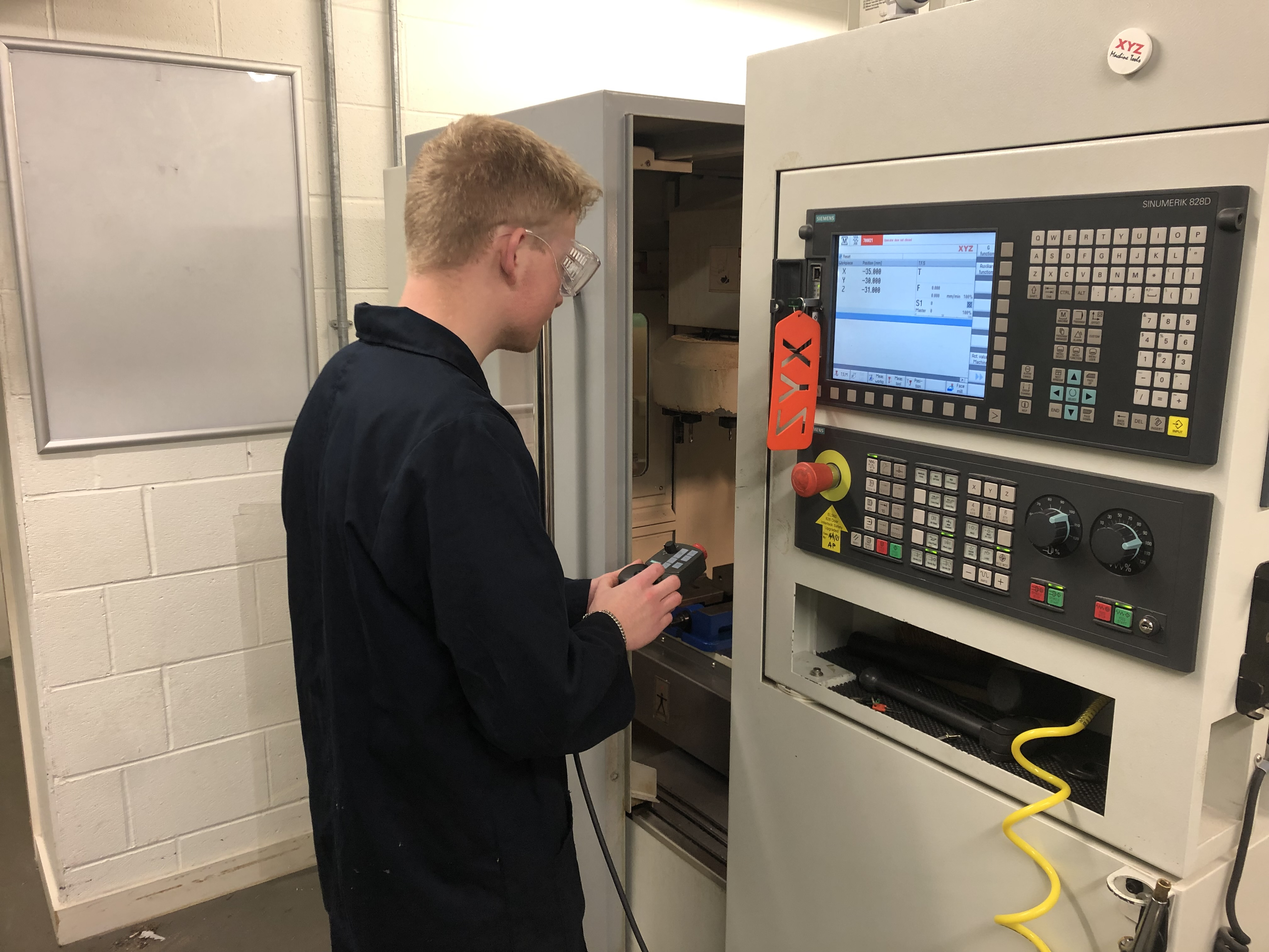
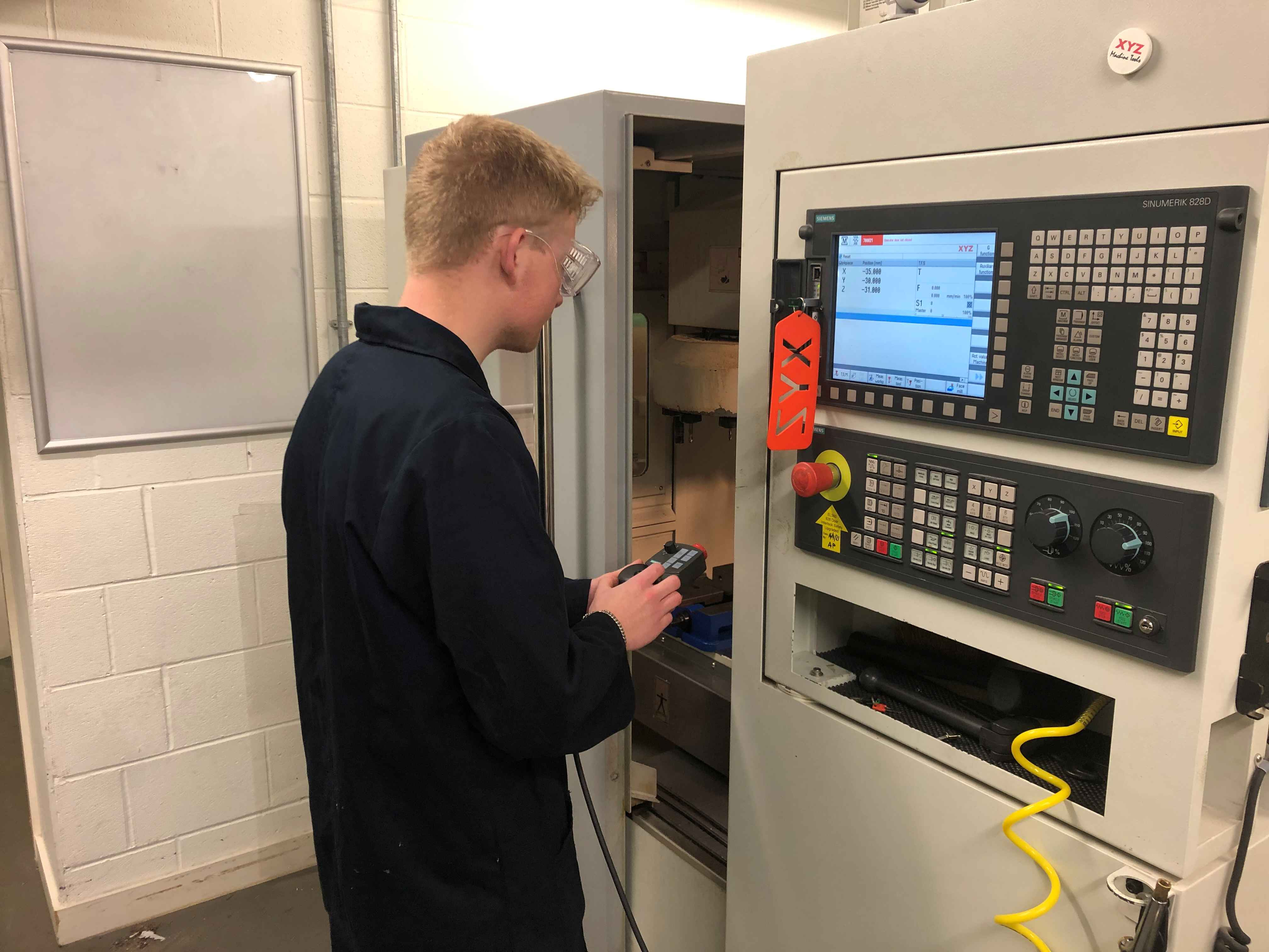
Manufacturing page image resize

diff --git a/manufacturing.html b/manufacturing.html
@@ -75,7 +75,7 @@
         <div class="welding">
             <img src="static/Manufacturing/Metal-Sphere.jpg" class="welding-image" alt="Welding Image Re-Size">
             <img src="static/Manufacturing/Candid-Welding.jpg" class="welding-image" alt="Welding Image Re-Size">
-            <img src="static/Manufacturing/Metal-Pyramid.png" class="welding-image" alt="Welding Image Re-Size">
+            <img src="static/Manufacturing/Metal-Pyramid.jpg" class="welding-image" alt="Welding Image Re-Size">
             <span class="break"></span>
             <img src="static/Manufacturing/Metal-Sphere-Outdoors.jpg" class="welding-image" alt="Welding Image Re-Size">
             <img src="static/Manufacturing/Metal-Pyramid-Outdoors.jpg" class="welding-image" alt="Welding Image Re-Size">
